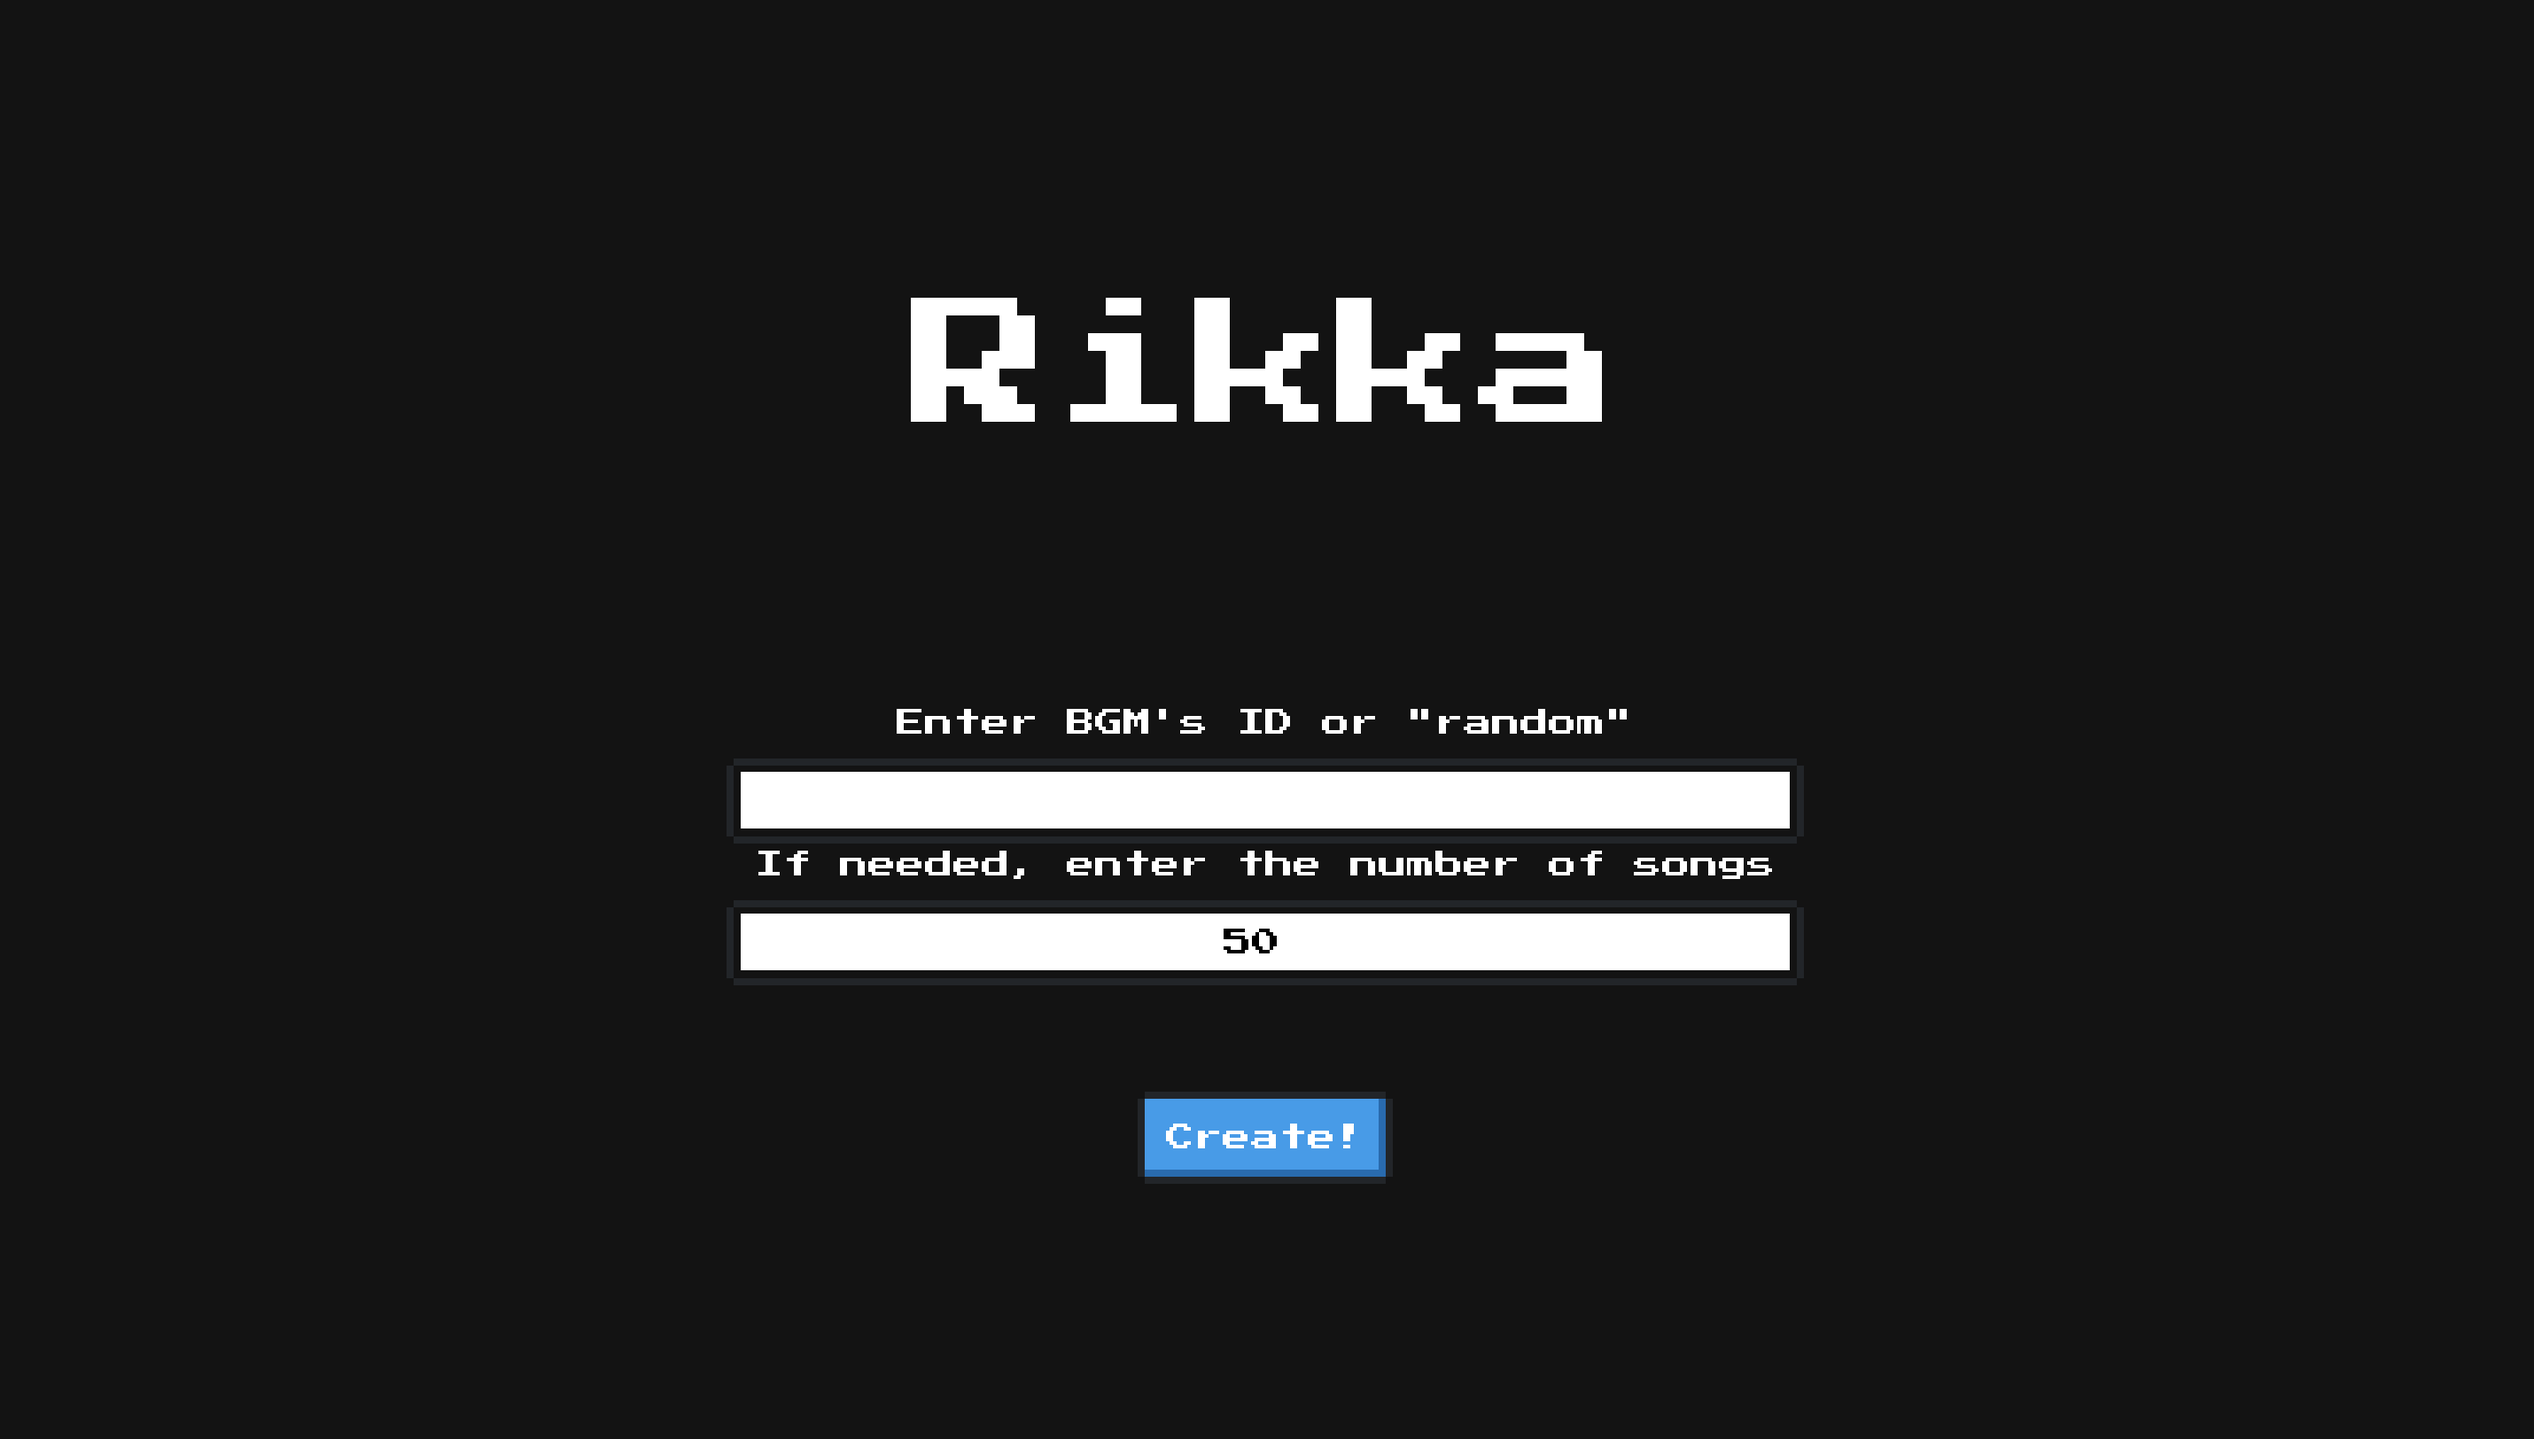
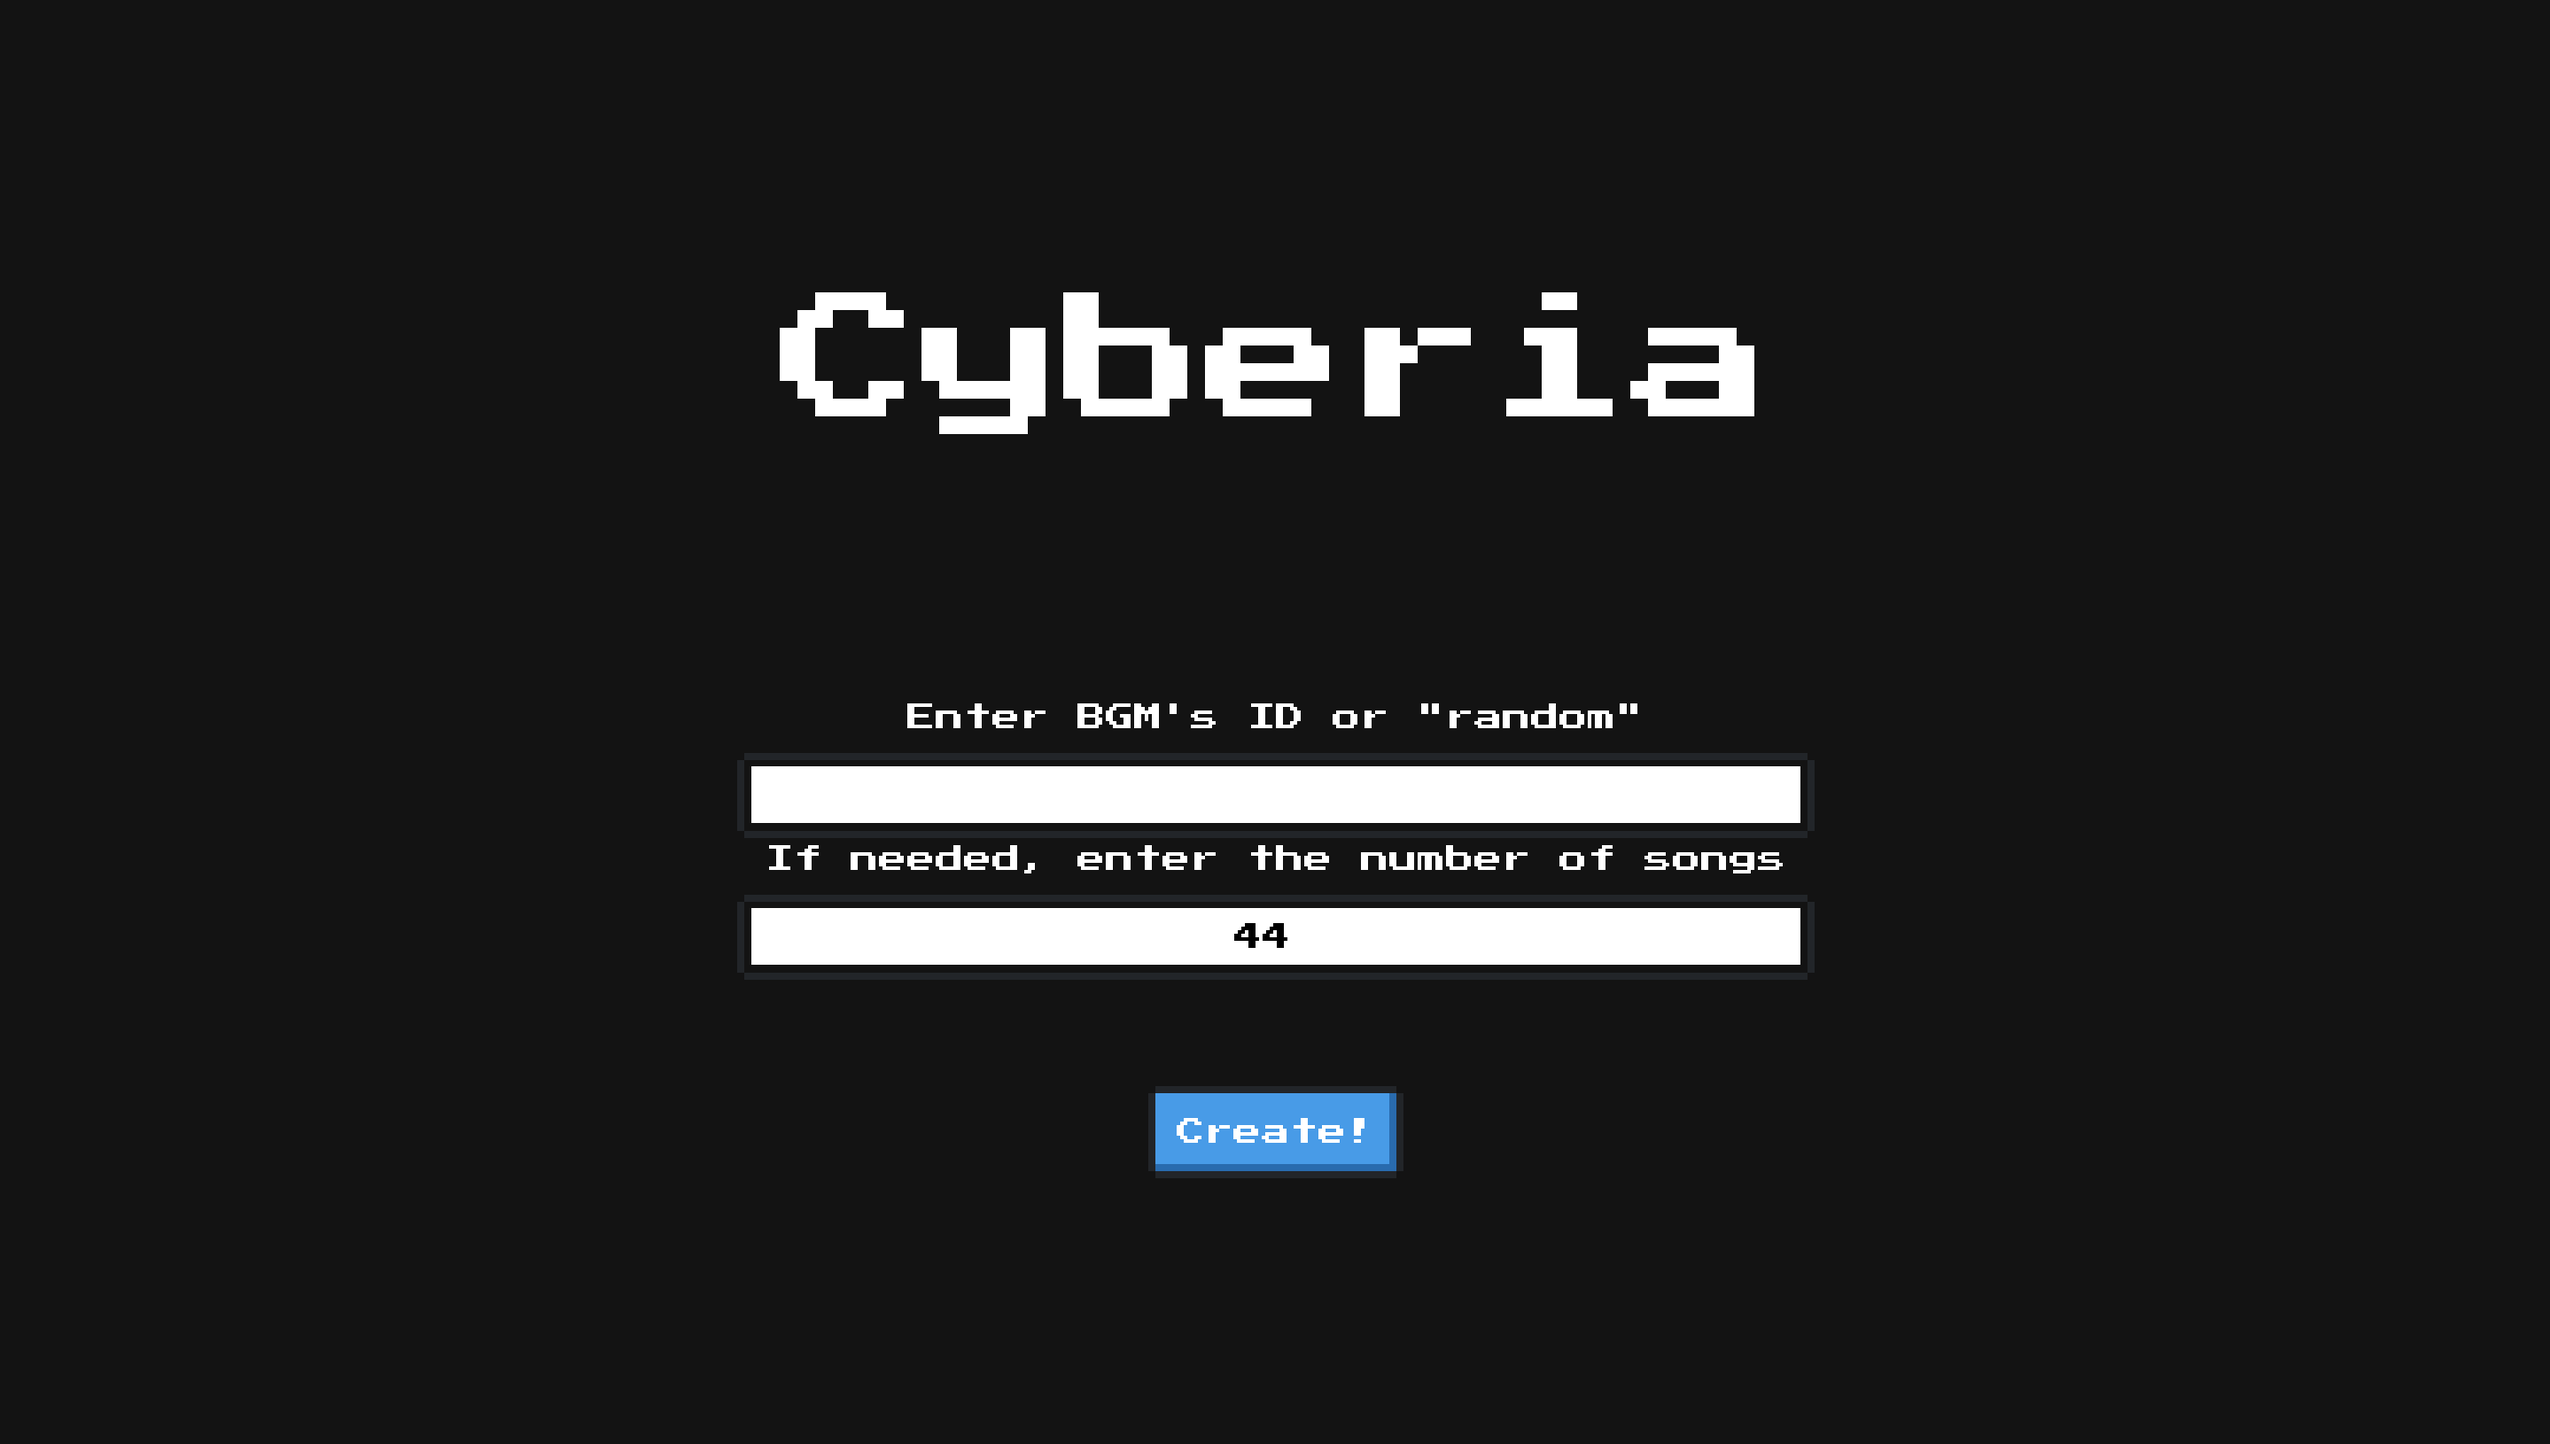
change title and simplify procedure

Changed region(s): [[0.2801, 0.4926, 0.7157, 0.6773], [0.2801, 0.1847, 0.7157, 0.3079], [0.4357, 0.7389, 0.5601, 0.8313]]

diff --git a/src/templates/search.html b/src/templates/search.html
@@ -3,20 +3,17 @@
 <head>
 <meta charset="utf-8">
 <meta name="viewport" content="width=device-width, initial-scale=1">
-
-<!-- Bootstrap CSS -->
 <link href="https://fonts.googleapis.com/css?family=Press+Start+2P" rel="stylesheet">
 <link href="https://unpkg.com/nes.css@latest/css/nes.min.css" rel="stylesheet" />
 <link href="/static/style.css" rel="stylesheet" />
-<title>Rikka</title>
-
+<title>{{ title }}</title>
 </head>
 
 <body>
     <div class="summary">
-        <span class="nes-text" style="font-size:80px;">Rikka</span>
+        <span class="nes-text" style="font-size:80px;">{{ title }}</span>
         {% if code %}
-            <p class="error" style="color: yellow;font-size: small;">{{code}}</p>
+            <p class="error" style="color: yellow;font-size: small;">{{ code }}</p>
         {% endif %}
         <p class="blank"></p>
         <div class="nes-field" id="inputs" style="text-align:center;">
@@ -27,7 +24,7 @@
                 </div>
                 <label for="name_field">If needed, enter the number of songs</label>
                 <div class="input_wrap">
-                    <input type="number" id="num" name="num" required minlength="1" style="width:600px;height:40px;" wrap="soft" class="nes-input" value="50">
+                    <input type="number" id="num" name="num" required minlength="1" style="width:600px;height:40px;" wrap="soft" class="nes-input" value="44">
                 </div>
                 <p class="blankafter"></p>
                 <button type="submit" class="nes-btn is-primary">Create!</button>

diff --git a/src/server.py b/src/server.py
@@ -13,11 +13,12 @@ app.mount("/static", StaticFiles(directory="static"), name="static")
 manager = SpotifyManager()
 templates = Jinja2Templates("templates")
 error_code = codes()
+title = "Cyberia"
 
 
 @app.get('/')
 def index(request: Request):
-    return templates.TemplateResponse("search.html", context={"request": request})
+    return templates.TemplateResponse("search.html", context={"request": request, "title": title})
 
 
 @app.post('/search')
@@ -32,6 +33,6 @@ async def search(request: Request, trackid: str = Form(...), num: int = Form(...
     print(playlist_url, c)
 
     if playlist_url is None:
-        return templates.TemplateResponse("search.html", context={"request": request, "code": error_code[c]})
+        return templates.TemplateResponse("search.html", context={"request": request, "title": title, "code": error_code[c]})
     else:
         return RedirectResponse(playlist_url + '/')

diff --git a/README.md b/README.md
@@ -1,12 +1,12 @@
-# Rikka
+# Cyberia
 
 ![](./images/screen.png)
 
 ## Overview
-Rikka enables users to create two types of playlists that contain only game BGMs in Spotify.
+Cyberia helps users look for new game BGMs in Spotify. Specifically, the application creates two types of playlists that contain only game BGMs.
 
-- Playlists containing BGMs that have close features to user-chosen BGM.
-- Playlists containing randomly chosen BGMs.
+- A Playlist containing BGMs that have close features to user-chosen BGM.
+- A Playlist containing randomly chosen BGMs.
 
 ## Getting Started
 ### 0. Preparation
@@ -25,12 +25,10 @@ $ export SPOTIFY_REDIRECT_URL="{Redirect URL}"
 - Build docker images via
 
 ```
-$ docker build -t fastapi -f Dockerfiles/FastAPI/Dockerfile .
-$ docker build -t nginx -f Dockerfiles/Nginx/Dockerfile .
-$ docker build -t mysql -f Dockerfiles/MySQL/Dockerfile .
+$ bash build.sh
 ```
 
-### 2. Start Rikka
+### 2. Start Cyberia
 - Start application via the command below and access `0.0.0.0:5001`.
 
 ```
@@ -39,14 +37,16 @@ $ docker-compose up -d
 
 ## User Guide
 ### 0. Fill in textboxes
-To create playlists, you need to fill in two textboxes (One is not always needed because default number is already set) in advance.
+You need to fill in two textboxes (One is not always needed because default number is already set) in advance.
 
-- First textbox: you need to enter ID of each track or "random". ID is included in Spotify's URL of each track.
-- Second textbox: the number represents the number of BGMs in playlist. default number is 50. Although you can change the number, you cannot set the number greater than 10000.
+- First textbox: ID of each track or "random"
+  - ID is included in Spotify's URL of each track.
+- Second textbox: Number of BGMs in playlist.
+  - default number is 44. You cannot set the number greater than 10000.
 
 ### 1. Push the button
 After filling in textboxes, you need to `Create!` button.
 
 ### 2. Results
-- If you enter ID of your chosen song, Rikka redirects to the page of playlist named `{Name of your chosen song}RelatedSongs`.
-- If you enter "random", Rikka redirects to the page of playlist named `RandomlyChosenSongs`.
+- If you enter ID of your chosen song, Cyberia redirects to the page of playlist named `{Name of your chosen song}RelatedSongs`.
+- If you enter "random", Cyberia redirects to the page of playlist named `RandomlyChosenSongs`.
